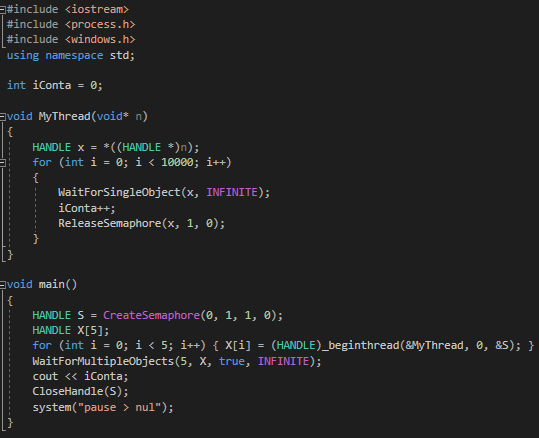
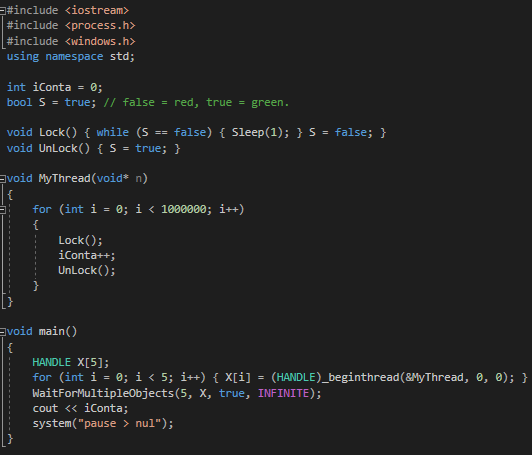
_
_

diff --git a/PAGES/RaceCondition/RaceCondition.html b/PAGES/RaceCondition/RaceCondition.html
@@ -12,7 +12,7 @@
 
 <div class="page">
 
-<h5 class="sep">Introduzione</h5>
+<h5 class="sep" style="margin-top: 0px;">Introduzione</h5>
 <p>
 La <em>race condition</em>, anche chiamata <em>race hazard</em>, è un problema che può verificarsi in campo informatico nel <em>multi-threading programming</em> ed è dovuto al tentativo di<em> thread</em> di pari priorità di un programma di eseguire azioni in parallelo.
 In una macchina <em>single-core</em>, le azioni vengono eseguite in sequenza partendo da quella che è stata richiesta per prima (sempre considerando nessuna priorità).
@@ -214,7 +214,7 @@ Infine siamo certi che ci saranno 5 milioni di azioni di scrittura, ma i <em>thr
 
 <p class="IMGshow">CODE:</p>
 <img class="SlideIMG" src="IMG/n2.png" alt="code"></img>
-
+<p class="codeShow" >RESULT: <code>3291884</code></p>
 <h5 class="sep">Note</h5>
 
 <p>
@@ -240,14 +240,60 @@ thread può accadere che delle variabili vengano sovrascritte con valori uguali 
 
 <h5 class="sep">"Fix"</h5>
 
+<p>
+Quindi usare i <em>thread</em>, oltre a dare errori, è più lento. C'è allora un modo per evitare che due variabili interferiscano tra 
+loro durante l'elaborazione? Si: usando i semafori... Creiamone uno. <br>
+La logica dietro un semaforo è bloccare il procedimento di un pezzo di codice, che potrebbe contenere un'azione di modifica di una variabile, 
+per tutti i <em>thread</em> tranne uno, per il quale invece continua a funzionare, in modo che sulla variabile lavori solo 
+un potenziale modificatore. Una volta finita l'azione, viene permesso a un altro <em>thread</em> di lavorare e così via. In questo modo, lentamente e uno alla volta tutti i <em>thread</em> raggiungeranno il loro obbiettivo comune. 
+A tal fine usiamo un <em>boolean</em> che rappresenta il rosso o il verde di un semaforo.
+
+</p>
+
 <p class="IMGshow">CODE:</p>
 <img class="SlideIMG" src="IMG/n4.png" alt="code"></img>
+<p class="codeShow" >RESULT: <code>4999960</code></p>
+
+<p>
+Come possiamo notare non ha funzionato, ma ci siamo andati vicino, molto più vicino rispetto all'esecuzione senza semaforo... Ma la logica è giusta... come 
+mai non ha funzionato? Semplice: siamo a un livello di programmazione troppo alto. Infatti, durante il cambio di semaforo, solo un thread andava avanti, eccetto rare volte 
+in cui più thread partono appena diventa verde il semaforono, prima che cambi in rosso, causando una race condition. Questo perché manca qualcosa 
+al semaforo, una sorta di "blocca-qualunque-partenza-mentre-cambio-colore" che, difatti, è un'esclusiva del basso livello. <br>
+In nostro soccorso arrivano due altri metodi per il semaforo, scritti in un linguaggio più basso di livello, quindi in grado di svolgere questa azione: il semaforo e il mutex. 
+</p>
 
 <p class="IMGshow">CODE:</p>
 <img class="SlideIMG" src="IMG/n5.png" alt="code"></img>
+<p class="codeShow" >RESULT: <code>50000</code></p>
 
 <p class="IMGshow">CODE:</p>
 <img class="SlideIMG" src="IMG/n6.png" alt="code"></img>
+<p class="codeShow" >RESULT: <code>50000</code></p>
+
+<p>
+Funzionano, daranno sempre il risultato voluto, quindi tutti felici? Non troppo, in realtà abbiamo sacrificato efficienza per completezza, cioè, il nostro 
+programma è lento, troppo lento, ma purtroppo su questo non possiamo farci nulla; la domanda che resta è solo una quindi, semaforo o mutex? <br>
+Tutti e due fanno ciò che è richiesto e dal codice sembrano essere completamente uguali, se non per parametri e nome delle funzioni; l'unica cosa in cui si
+differenziano è il livello macchina in cui lavorano e la funzionalità. Il semaforo è, difatti, a livello applicazione e può presentare più stadi oltre verde e rosso;
+il mutex, invece, è a kernal level (sistema operativo) e ha solo rosso e verde. A questo livello, alcune azioni sono mutex-protected, cioè, 
+più pesanti e quindi con tempi di esecuzione più lenti, ma solo quando sono presenti azioni più pesanti di un banale incremento.
+</p>
+<p>
+Testando questo con una azione più complicata, proviamo a vedere, su 500 tentativi per 3 prove, quante volte è stato più veloce il semaforo del mutex e viceversa.
+</p>
+<p class="IMGshow">CODE:</p>
+<img class="SlideIMG" src="IMG/n7.png" alt="code"></img>
+<table>
+<tr><th>Prova</th><th>Semaforo</th><th>Mutex</th></tr>
+<tr><td>1</td><td>382</td><td>118</td></tr>
+<tr><td>2</td><td>371</td><td>129</td></tr>
+<tr><td>3</td><td>445</td><td>55</td></tr>
+</table>
+
+<p>
+Il semaforo è stato infatti più veloce la maggior parte delle volte, ma come detto in precedenza, se provassimo a fare questo con 
+azioni molto meno complicate il risultato sarebbe 50%-50%.
+</p>
 
 <h5 class="sep">Conclusione</h5>
 <p>
@@ -274,16 +320,16 @@ non gestendo la <em>race condition </em>quando si è ormai verificata, ma tenta
 
 <h3>Therac-25</h3>
 
-<hr />
+<hr class="menu"/>
 
 <p>Una macchina “radiation therapy” che per questo errore infliggeva nel paziente massive dosi di radiazioni.</p>
 <a href="http://sunnyday.mit.edu/papers/therac.pdf">http://sunnyday.mit.edu/papers/therac.pdf</a> </span>Punto 3.</span>
 
-<br />
+<br /><br />
 
 <h3>Spirit (rover)</h3>
 
-<hr />
+<hr class="menu"/>
 
 <p>La macchina che nel 2004 andò a scattare delle foto su marte ebbe di problemi che vennero risolti per colpa di una race hazard</p>
 <a href="https://en.wikipedia.org/wiki/Spirit_(rover)#Sol_17_(January_21,_2004)_flash_memory_management_anomaly">https://en.wikipedia.org/wiki/Spirit_(rover)</a>

diff --git a/js.js b/js.js
@@ -32,12 +32,12 @@ $(function(){
 		}
 		this.update = function()
 		{
-			if (this.x + r >= window.innerWidth || this.x - r <= 0 || this.y + r >= window.innerHeight || this.y - r <= 230)
+			if (this.x + r >= window.innerWidth || this.x - r <= 0 || this.y + r >= window.innerHeight || this.y - r <= 0)
 			{
 				if (this.x + this.r >= window.innerWidth)	{Vx = -Vx*a; this.x = window.innerWidth - this.r}
 				if (this.x - this.r <= 0)					{Vx = -Vx*a; this.x = 0 + this.r}
 				if (this.y + this.r >= window.innerHeight)	{Vy = -Vy*a; this.y = window.innerHeight - this.r; Vx *= a}
-				if (this.y - this.r <= 230)					{Vy = -Vy*a; this.y = 230 + this.r}
+				if (this.y - this.r <= 0)					{Vy = -Vy*a; this.y = 0 + this.r}
 			}
 			else 											{Vy += g;}
 			this.y += Math.ceil(Vy);

diff --git a/Demos/Header.css b/Demos/Header.css
@@ -5,30 +5,28 @@ html {
 *{
 	padding: 0;
 	margin: 0;
-	font-family: Inconsolata;
+	font-family: monospace;
 }
 
 div.page {
 	margin: 0 auto;
 	left: 50%;
-	border-left: 5px solid #e83535;
-	border-right: 5px solid #e83535;
+	border: 1px solid #161d1d;
 	padding: 20px;
 	width: 800px;
 	color: #1d1616;
 	font-size:125%;
-	background-color: #ffcdcd;	
+	background-color: #fff;	
 	box-shadow: 20px 20px #ffe5e5;
 }
 
 
-
 .Slide{
+	width:100%;
 	font-size: 70%;
 	background-color: #fa5757;
 	padding: 3px;
 	color: white;
-	width: 125px;
 	text-align: center;
 	text-shadow: 0px 0px white;
 }
@@ -57,8 +55,9 @@ div.page {
 }
 
 hr.menu{
-	padding:2px;
+	padding:1px;
 	background-color: #e83535;
+	border: 0;
 }
 
 pre.menu{

diff --git a/PAGES/RaceCondition/css.css b/PAGES/RaceCondition/css.css
@@ -56,10 +56,15 @@ p.codeShow{
 }
 
 .sep {
+	font-size: 150%;
+	margin-top: 75px;
 	text-align: center;
 	background-color:#e83535;
 	color: white;
 	text-shadow: none;
 	font-weight: normal;
-	margin: 10px 0;
+}
+
+p {
+	margin-bottom: 1ex;
 }

diff --git a/PAGES/AboutMe/css.css b/PAGES/AboutMe/css.css
@@ -1,5 +1,8 @@
 .title > img{
-	    box-shadow: 10px 10px #ffe5e5;
+	box-shadow: 10px 10px #ffe5e5;
+	width: 250px;
+	height: 250px;
+	border: 1px ridge #161d1d;
 }
 
 
